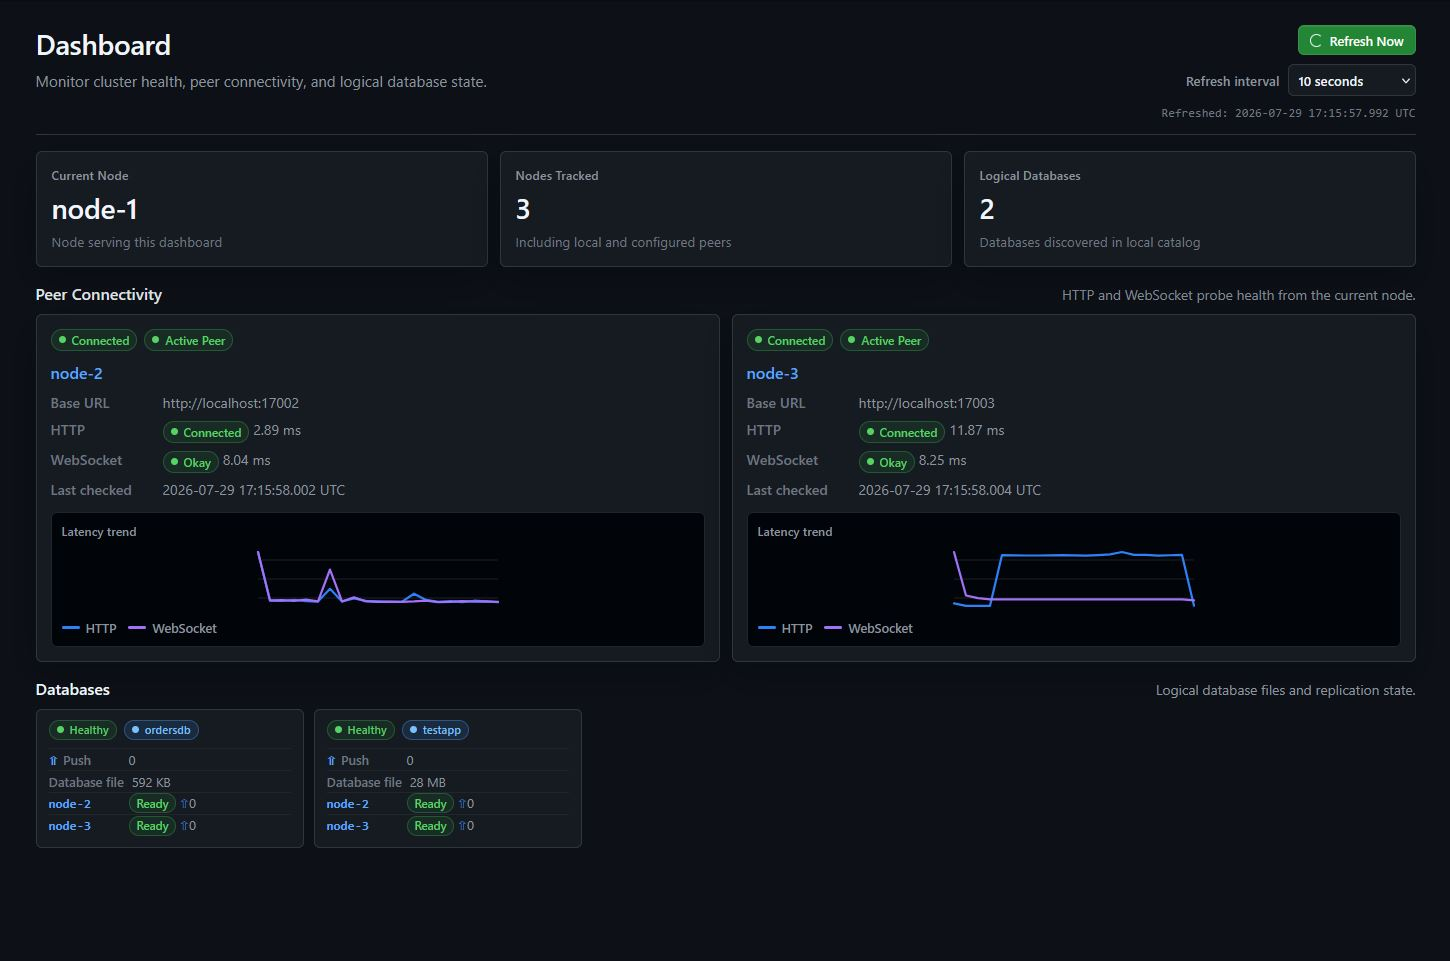
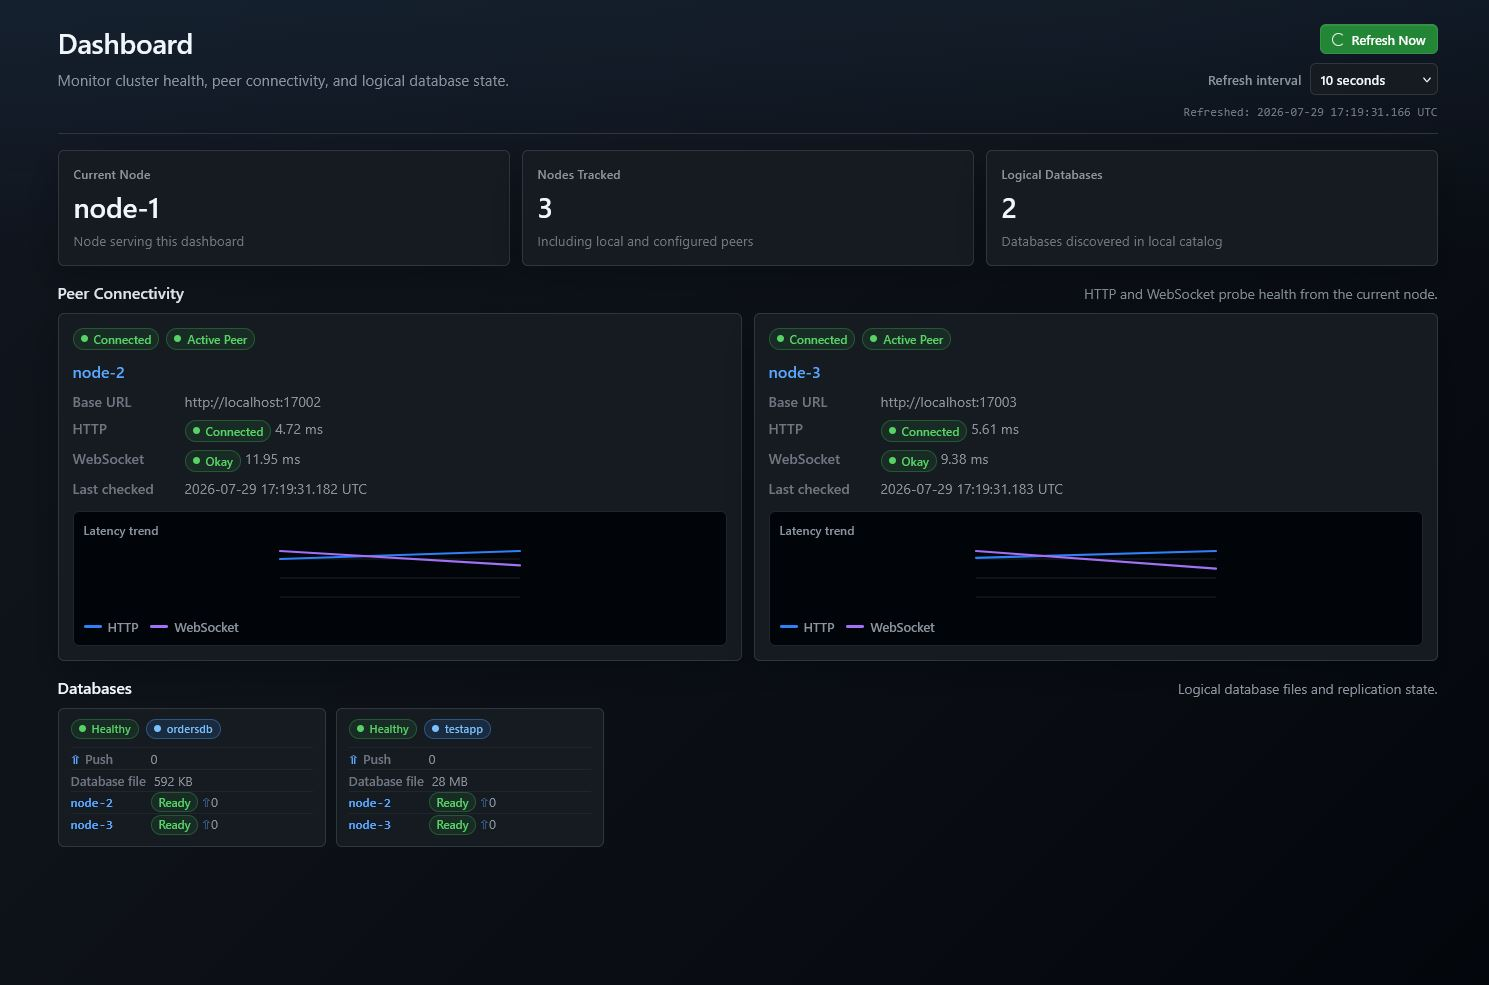
ui improvements

diff --git a/LiteDb.Distributed.Server/wwwroot/index.html b/LiteDb.Distributed.Server/wwwroot/index.html
@@ -52,7 +52,10 @@
       min-height: 100vh;
       color: var(--fg);
       font-family: -apple-system, BlinkMacSystemFont, "Segoe UI", Helvetica, Arial, sans-serif;
-      background: var(--canvas);
+      background:
+        linear-gradient(180deg, rgba(88, 166, 255, 0.075), transparent 260px),
+        linear-gradient(135deg, #10161f 0%, var(--canvas) 42%, var(--canvas-subtle) 100%);
+      background-attachment: fixed;
       overflow-y: scroll;
     }
 

diff --git a/LiteDb.Distributed.Studio/wwwroot/css/app.css b/LiteDb.Distributed.Studio/wwwroot/css/app.css
@@ -28,7 +28,10 @@ html,
 body {
     margin: 0;
     min-height: 100%;
-    background: var(--bg);
+    background:
+        linear-gradient(180deg, rgba(88, 166, 255, 0.075), transparent 260px),
+        linear-gradient(135deg, #10161f 0%, var(--bg) 42%, var(--bg-alt) 100%);
+    background-attachment: fixed;
     color: var(--text-main);
     font-family: -apple-system, BlinkMacSystemFont, "Segoe UI", Helvetica, Arial, sans-serif;
 }
